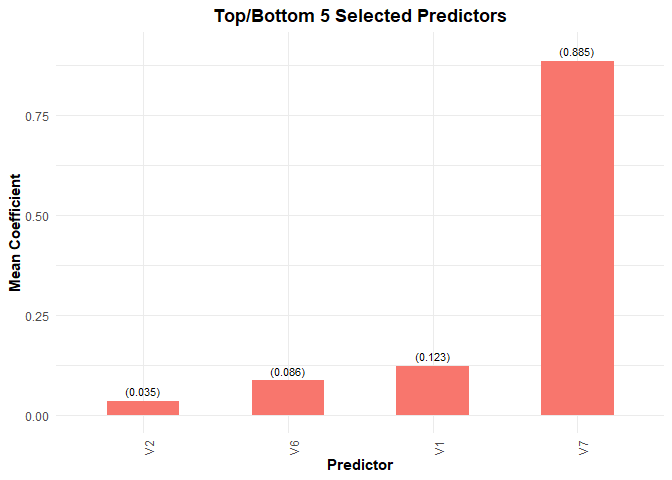
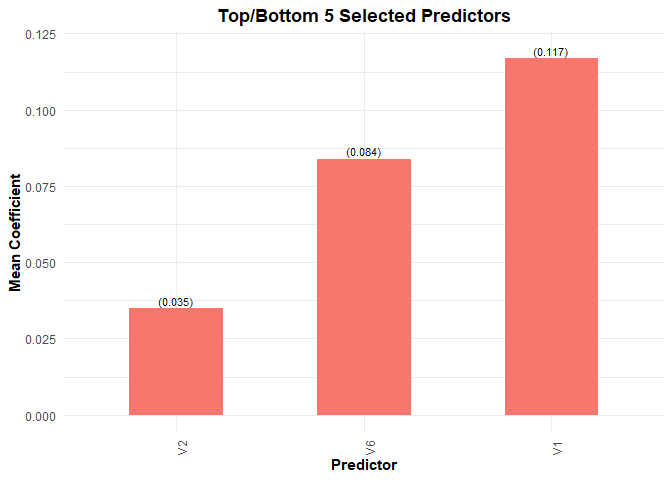
Edit README

diff --git a/README.md b/README.md
@@ -59,7 +59,7 @@ model <- bolasso(
 )
 
 Sys.time() - start.time
-#> Time difference of 23.7819 secs
+#> Time difference of 34.18556 secs
 ```
 
 We can get a quick overview of the model by printing the `bolasso`
@@ -74,8 +74,8 @@ model
 #>    - 768 Observations
 #> 
 #> Selected variables:
-#>    - 5/8 predictors selected with 90% threshold
-#>    - 4/8 predictors selected with 100% threshold
+#>    - 6/8 predictors selected with 90% threshold
+#>    - 3/8 predictors selected with 100% threshold
 ```
 
 ### Extracting selected variables
@@ -89,29 +89,26 @@ case we will use the lambda value that minimizes OOS error.
 selected_vars(model,
               threshold = 0.9,
               select = "lambda.min")
-#> # A tibble: 6 x 2
+#> # A tibble: 7 x 2
 #>   variable  mean_coef
 #>   <chr>         <dbl>
 #> 1 Intercept   -8.22  
-#> 2 V1           0.119 
-#> 3 V2           0.0344
-#> 4 V3          -0.0114
-#> 5 V6           0.0859
-#> 6 V7           0.934
-```
-
-``` r
+#> 2 V1           0.117 
+#> 3 V2           0.0346
+#> 4 V3          -0.0121
+#> 5 V6           0.0839
+#> 6 V7           0.893 
+#> 7 V8           0.0155
 selected_vars(model,
               threshold = 1,
               select = "lambda.min")
-#> # A tibble: 5 x 2
+#> # A tibble: 4 x 2
 #>   variable  mean_coef
 #>   <chr>         <dbl>
 #> 1 Intercept   -8.22  
-#> 2 V1           0.119 
-#> 3 V2           0.0344
-#> 4 V6           0.0859
-#> 5 V7           0.934
+#> 2 V1           0.117 
+#> 3 V2           0.0346
+#> 4 V6           0.0839
 ```
 
 ### Plotting selected variables
@@ -123,24 +120,29 @@ threshold values.
 plot(model, threshold = 0.9)
 ```
 
-<img src="man/figures/README-unnamed-chunk-7-1.png" width="100%" />
+<img src="man/figures/README-unnamed-chunk-6-1.png" width="75%" />
 
 ``` r
 plot(model, threshold = 1)
 ```
 
-<img src="man/figures/README-unnamed-chunk-7-2.png" width="100%" />
+<img src="man/figures/README-unnamed-chunk-6-2.png" width="75%" />
 
 ### Parallelizing bolasso
 
 We can execute `bolasso` in parallel via the
 [future](https://cran.r-project.org/web/packages/future/index.html)
 package. To do so we can copy the code from above with only one minor
-tweak.
+tweak shown below.
 
 ``` r
-future::plan(future::sequential)
+future::plan("multisession")
+```
 
+We can now run the code from above, unaltered, and it will execute in
+parallel.
+
+``` r
 start.time <- Sys.time()
 
 model <- bolasso(
@@ -152,8 +154,5 @@ model <- bolasso(
 )
 
 Sys.time() - start.time
-#> Time difference of 24.65288 secs
+#> Time difference of 19.6347 secs
 ```
-
-This document was created on a system with 8 cores and we can see the
-computation time has decreased significantly
